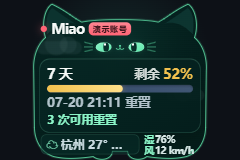
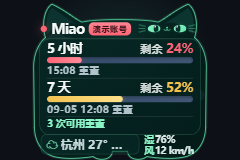
fix: preserve compact cat eyes and fit dual quota panels
Move reset credits into a shared summary row, reserve space for both quota windows, and retain blinking eyes in the compact header. Add seven-scale layout regression checks, refresh demo screenshots and bilingual docs, and bump the package to 0.2.2.

Changed region(s): [[0.1458, 0.1562, 0.8458, 0.8438]]

diff --git a/src/styles.css b/src/styles.css
@@ -348,35 +348,75 @@ button:focus-visible {
   font-variant-numeric: tabular-nums;
 }
 
+.compact-reset-summary {
+  flex: none;
+  padding-top: 4px;
+  border-top: 1px solid rgb(159 180 192 / 18%);
+  white-space: nowrap;
+}
+
 .compact-content.has-multiple-quotas .cat-face {
-  display: none;
+  z-index: 7;
+  top: 31px;
+  right: 16px;
+  left: auto;
+  display: grid;
+  pointer-events: none;
+  transform: scale(0.38);
+  transform-origin: top right;
+}
+
+.compact-content.has-multiple-quotas .compact-brand {
+  max-width: 142px;
+}
+
+.compact-content.has-multiple-quotas .compact-plan {
+  max-width: 80px;
 }
 
 .compact-content.has-multiple-quotas .compact-quota-panel {
-  top: 61px;
-  padding-block: 7px;
+  top: 55px;
+  bottom: 36px;
+  justify-content: flex-start;
+  gap: 3px;
+  padding-block: 5px;
 }
 
 .compact-content.has-multiple-quotas .compact-quota + .compact-quota {
-  padding-top: 7px;
+  padding-top: 4px;
   border-top: 1px solid rgb(159 180 192 / 18%);
 }
 
 .compact-content.has-multiple-quotas .compact-quota {
-  gap: 4px;
+  gap: 2px;
 }
 
 .compact-content.has-multiple-quotas .compact-quota-heading h2,
 .compact-content.has-multiple-quotas .compact-quota-heading strong {
   font-size: 18px;
+  line-height: 1.05;
+}
+
+.compact-content.has-multiple-quotas .compact-quota-heading p {
+  font-size: 16px;
 }
 
 .compact-content.has-multiple-quotas .compact-reset {
   font-size: 15px;
+  line-height: 1.05;
 }
 
-.compact-content.has-multiple-quotas .compact-reset-count {
+.compact-content.has-multiple-quotas .compact-quota-track {
+  height: 9px;
+}
+
+.compact-content.has-multiple-quotas .compact-reset-summary {
+  width: 100%;
+  padding-top: 2px;
+  overflow: hidden;
   font-size: 14px;
+  line-height: 1.05;
+  text-overflow: ellipsis;
 }
 
 .compact-footer {
@@ -868,6 +908,11 @@ button:focus-visible {
   padding-block: 18px;
 }
 
+.quota-panel.has-multiple-quotas {
+  top: 108px;
+  padding: 10px 18px 9px;
+}
+
 .quota-meter {
   --quota-color: var(--mint-400);
   --quota-color-soft: #8bf4c7;
@@ -974,6 +1019,49 @@ button:focus-visible {
   font-variant-numeric: tabular-nums;
 }
 
+.quota-reset-summary {
+  margin-top: 7px;
+  padding-top: 6px;
+  border-top: 1px solid rgb(159 180 192 / 18%);
+  white-space: nowrap;
+}
+
+.quota-panel.has-multiple-quotas .quota-meter {
+  gap: 5px;
+}
+
+.quota-panel.has-multiple-quotas .quota-heading h2 {
+  font-size: 22px;
+}
+
+.quota-panel.has-multiple-quotas .quota-heading p {
+  font-size: 17px;
+}
+
+.quota-panel.has-multiple-quotas .quota-heading strong {
+  font-size: 19px;
+}
+
+.quota-panel.has-multiple-quotas .quota-track {
+  height: 12px;
+}
+
+.quota-panel.has-multiple-quotas .reset-time {
+  font-size: 17px;
+  line-height: 1.15;
+}
+
+.quota-panel.has-multiple-quotas .reset-time svg {
+  width: 18px;
+  height: 18px;
+}
+
+.quota-panel.has-multiple-quotas .quota-reset-summary {
+  padding-left: 25px;
+  font-size: 16px;
+  line-height: 1.1;
+}
+
 .quota-divider {
   height: 1px;
   margin: 11px 0;
@@ -984,6 +1072,10 @@ button:focus-visible {
     rgb(159 180 192 / 19%) 90%,
     transparent
   );
+}
+
+.quota-panel.has-multiple-quotas .quota-divider {
+  margin: 7px 0;
 }
 
 .status-footer {

diff --git a/src/components/CompactPanel.tsx b/src/components/CompactPanel.tsx
@@ -31,15 +31,9 @@ function shortQuotaLabel(windowMinutes: number, locale: AppLocale): string {
 
 interface CompactQuotaProps {
   quota: QuotaWindow;
-  availableResetCount: number | null;
-  showAvailableResets: boolean;
 }
 
-function CompactQuota({
-  quota,
-  availableResetCount,
-  showAvailableResets,
-}: CompactQuotaProps) {
+function CompactQuota({ quota }: CompactQuotaProps) {
   const { locale, messages } = useI18n();
   const health = quotaHealth(quota);
   const progressPercent = quotaProgressPercent(quota);
@@ -69,11 +63,6 @@ function CompactQuota({
       <p className="compact-reset">
         {formatResetTime(quota, locale)} {messages.reset}
       </p>
-      {showAvailableResets ? (
-        <p className="compact-reset-count">
-          {messages.availableResets(availableResetCount)}
-        </p>
-      ) : null}
     </section>
   );
 }
@@ -89,6 +78,7 @@ export function CompactPanel({
   onWeatherOpenChange,
   onSetCity,
 }: CompactPanelProps) {
+  const { messages } = useI18n();
   const hasMultipleQuotas = snapshot.quotas.length > 1;
 
   return (
@@ -113,14 +103,15 @@ export function CompactPanel({
       <CatFace />
 
       <div className="compact-quota-panel">
-        {snapshot.quotas.map((quota, index) => (
+        {snapshot.quotas.map((quota) => (
           <CompactQuota
             key={quota.windowMinutes}
             quota={quota}
-            availableResetCount={snapshot.availableResetCount}
-            showAvailableResets={index === snapshot.quotas.length - 1}
           />
         ))}
+        <p className="compact-reset-count compact-reset-summary">
+          {messages.availableResets(snapshot.availableResetCount)}
+        </p>
       </div>
 
       <footer className="compact-footer">

diff --git a/src/App.tsx b/src/App.tsx
@@ -122,7 +122,7 @@ export default function App() {
             <CatFace />
 
             <div
-              className={`quota-panel ${snapshot.quotas.length === 1 ? "is-single" : ""}`}
+              className={`quota-panel ${snapshot.quotas.length === 1 ? "is-single" : "has-multiple-quotas"}`}
             >
               {snapshot.quotas.map((quota, index) => (
                 <div key={quota.windowMinutes}>
@@ -132,11 +132,12 @@ export default function App() {
                   <QuotaMeter
                     quota={quota}
                     now={now}
-                    availableResetCount={snapshot.availableResetCount}
-                    showAvailableResets={index === snapshot.quotas.length - 1}
                   />
                 </div>
               ))}
+              <p className="reset-count quota-reset-summary">
+                {messages.availableResets(snapshot.availableResetCount)}
+              </p>
             </div>
 
             <footer className="status-footer">

diff --git a/src/components/QuotaMeter.tsx b/src/components/QuotaMeter.tsx
@@ -11,15 +11,11 @@ import { useI18n } from "../i18n";
 interface QuotaMeterProps {
   quota: QuotaWindow;
   now: number;
-  availableResetCount: number | null;
-  showAvailableResets: boolean;
 }
 
 export function QuotaMeter({
   quota,
   now,
-  availableResetCount,
-  showAvailableResets,
 }: QuotaMeterProps) {
   const { locale, messages } = useI18n();
   const health = quotaHealth(quota);
@@ -61,11 +57,6 @@ export function QuotaMeter({
           })
         </span>
       </p>
-      {showAvailableResets ? (
-        <p className="reset-count">
-          {messages.availableResets(availableResetCount)}
-        </p>
-      ) : null}
     </section>
   );
 }

diff --git a/docs/ARCHITECTURE.md b/docs/ARCHITECTURE.md
@@ -62,7 +62,7 @@ App Server 与本地会话格式都被隔离在适配器和契约测试之后；
 
 窗口使用 `520×460` 作为设计坐标，默认以 50% 的 `260×230` 启动：透明、无系统边框、默认置顶。猫耳与标题栏可拖动；天气入口与右下角缩放手柄属于不可拖动的交互区域。缩放手柄把鼠标位移投影到固定宽高比，并通过受限 IPC 调用 `BrowserWindow.setContentSize`，允许在 25%–150% 范围内等比缩放。透明窗口保持 `resizable: false`，不依赖各平台表现不一致的系统原生边框缩放。宠物窗口不提供刷新或关闭按钮，显示、隐藏与退出由 Windows 系统托盘或 macOS 菜单栏图标统一管理；macOS 启动后隐藏 Dock 图标。应用与状态栏均使用随包分发的无文字透明猫头图标，不依赖运行时 SVG 转换。
 
-渲染层在缩放比例不高于 36% 时切换到独立紧凑布局，而不是继续机械缩小完整面板。紧凑布局使用一半宽高的内部设计坐标再放大两倍，因此在 25% 的 `130×115` 实际窗口中，主文字仍约为 10px、按钮约为 15px、进度条约为 5.5px；猫头 SVG 轮廓、天气图层和窗口尺寸保持不变。额度恢复为两条时会压缩说明文字并隐藏中部猫脸，为两条进度信息让出空间。
+渲染层在缩放比例不高于 36% 时切换到独立紧凑布局，而不是继续机械缩小完整面板。紧凑布局使用一半宽高的内部设计坐标再放大两倍；猫头 SVG 轮廓、天气图层和窗口尺寸保持不变。在 25% 的 `130×115` 实际窗口中，单额度主文字约为 10px、进度条约为 5.5px；双额度主文字约为 9px、进度条约为 4.5px。双额度时缩短内部间距，并将缩小的猫脸移到标题栏右侧，保留两只眼睛的自然眨眼。可用重置次数作为额度面板底部的独立摘要行，不再附着于最后一个额度周期，避免双额度时与天气栏重叠。
 
 ## 局部动画
 

diff --git a/README.md b/README.md
@@ -26,7 +26,7 @@ These screenshots are generated from the current `main` renderer with clearly la
 
 ## Features
 
-- Displays only the quota windows present in the latest local Codex event. The current screenshots therefore show one seven-day window and no invented secondary placeholder; future window changes are handled dynamically.
+- Displays only the quota windows present in the latest local Codex event. The current screenshots show the returned five-hour and seven-day windows; missing or future windows are still handled dynamically without placeholders.
 - Shows used and remaining percentages, reset time, available reset count, approximate time remaining, and account membership status.
 - Uses the remaining allowance for warning colors: green at 60%–100%, yellow at 30%–59%, and red below 30%.
 - Syncs through the local Codex App Server's read-only rate-limit method, refreshes after Codex session changes, and keeps a 60-second polling fallback.
@@ -90,6 +90,7 @@ npm run typecheck          # TypeScript checks
 npm test                   # Vitest unit tests
 npm run build              # Production build
 npm run verify             # Typecheck + tests + production build
+npm run layout:verify      # Check two-quota layout from 25% through 150%
 npm run screenshots:generate # Build and capture the current three UI screenshots
 npm run package:win        # Windows NSIS installer + portable executable
 npm run package:mac:intel  # macOS Intel DMG (run on macOS)

diff --git a/docs/ARCHITECTURE.en.md b/docs/ARCHITECTURE.en.md
@@ -62,7 +62,7 @@ Important Electron settings include `contextIsolation: true`, `nodeIntegration: 
 
 The design coordinate space is `520×460`. Miao starts at `260×230` (50%), stays transparent and frameless, and resizes proportionally from 25% to 150% through a constrained IPC call. The ears and title area drag the window; weather controls and the lower-right resize handle are interactive no-drag regions.
 
-At 36% and below, the renderer switches to a dedicated compact layout with larger internal type and thicker progress bars instead of mechanically shrinking the full layout. The outer cat silhouette does not change. A missing five-hour quota does not leave an empty placeholder.
+At 36% and below, the renderer switches to a dedicated compact layout with larger internal type and thicker progress bars instead of mechanically shrinking the full layout. The outer cat silhouette does not change. A missing five-hour quota does not leave an empty placeholder. When both quota windows are present, tighter spacing and a smaller cat face at the right of the title bar preserve the blinking eyes. Available reset credits use a dedicated summary row at the bottom of the quota panel instead of being attached to the last quota window, preventing two-window layouts from colliding with the weather footer.
 
 ## Localization and motion
 

diff --git a/docs/design/UI_SPEC.md b/docs/design/UI_SPEC.md
@@ -20,8 +20,8 @@
 1. 设计坐标为 `520 × 460`，默认以 50% 的 `260 × 230` 启动；窗口透明、无系统边框、默认置顶，并允许在 25%–150% 范围内等比缩放。
 2. 唯一主容器是猫头外壳：顶部两只耳朵，中部圆润脸颊，下缘轻微收窄。
 3. 耳朵与标题区属于可拖动区域；右下角缩放手柄和天气入口必须排除窗口拖动。
-4. 标题下方只显示猫眼、鼻口与胡须，不出现独立全身猫或额外宠物窗口。
-5. 额度区使用一个内嵌面板；一个周期时自动居中，多个周期时用分隔线区分，不拆成多张卡片。
+4. 常规布局在标题下方显示猫眼、鼻口与胡须；紧凑双额度布局将猫脸缩小并移至标题栏右侧，保留自然眨眼，不出现独立全身猫或额外宠物窗口。
+5. 额度区使用一个内嵌面板；一个周期时自动居中，多个周期时用分隔线区分，不拆成多张卡片。可用重置次数固定为面板底部的独立摘要行，不归属于任一周期。
 6. 36% 以上按完整面板等比缩放；25%–36% 自动采用可读性更高的内部排版，猫形轮廓始终等比且不得拉伸。
 
 ## 3. 设计令牌

diff --git a/docs/screenshots/README.md b/docs/screenshots/README.md
@@ -6,9 +6,9 @@ These files are product evidence, not concept art. They must be regenerated from
 
 | File | Route | Viewport | Expected layout |
 | --- | --- | --- | --- |
-| `miao-zh-cn.png` | `/?lang=zh` | `520×460` | Chinese, full, one seven-day demo quota |
-| `miao-en-us.png` | `/?lang=en` | `520×460` | English, full, one seven-day demo quota |
-| `miao-compact.png` | `/?lang=zh` | `240×160` | Chinese compact layout, about 35% scale |
+| `miao-zh-cn.png` | `/?lang=zh&with-5h=1` | `520×460` | Chinese, full, five-hour and seven-day demo quotas |
+| `miao-en-us.png` | `/?lang=en&with-5h=1` | `520×460` | English, full, five-hour and seven-day demo quotas |
+| `miao-compact.png` | `/?lang=zh&with-5h=1` | `240×160` | Chinese compact two-quota layout, about 35% scale |
 
 Before committing screenshots:
 
